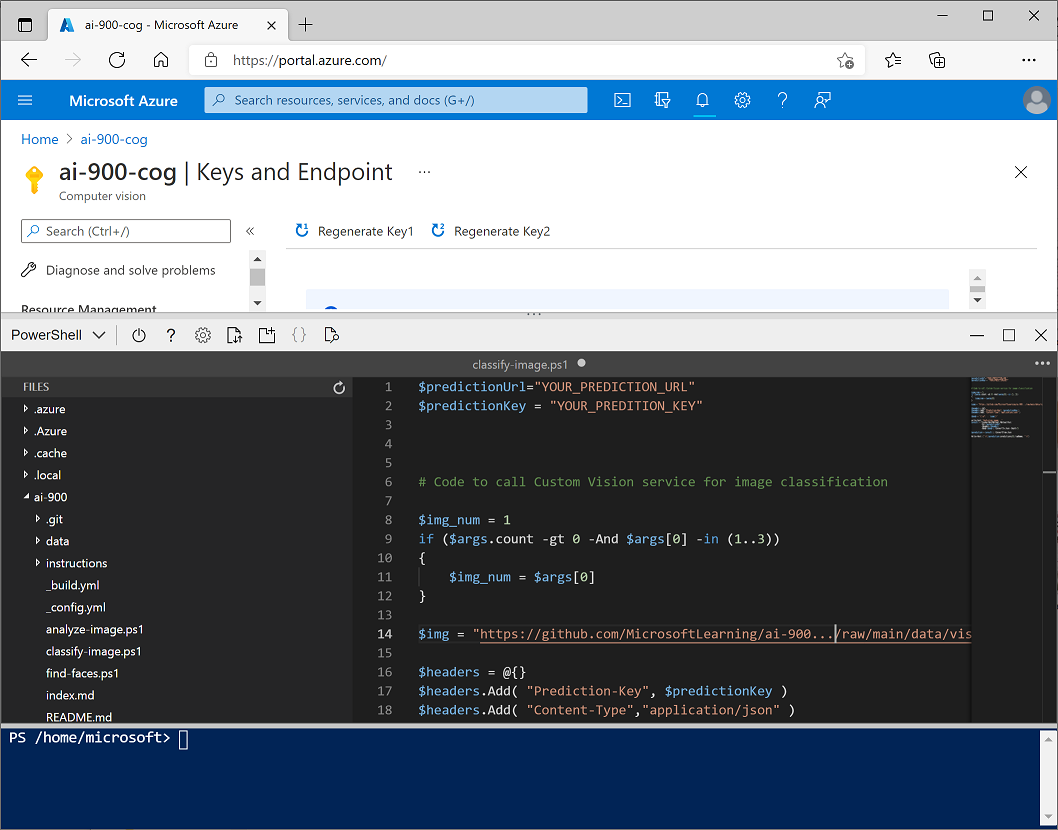
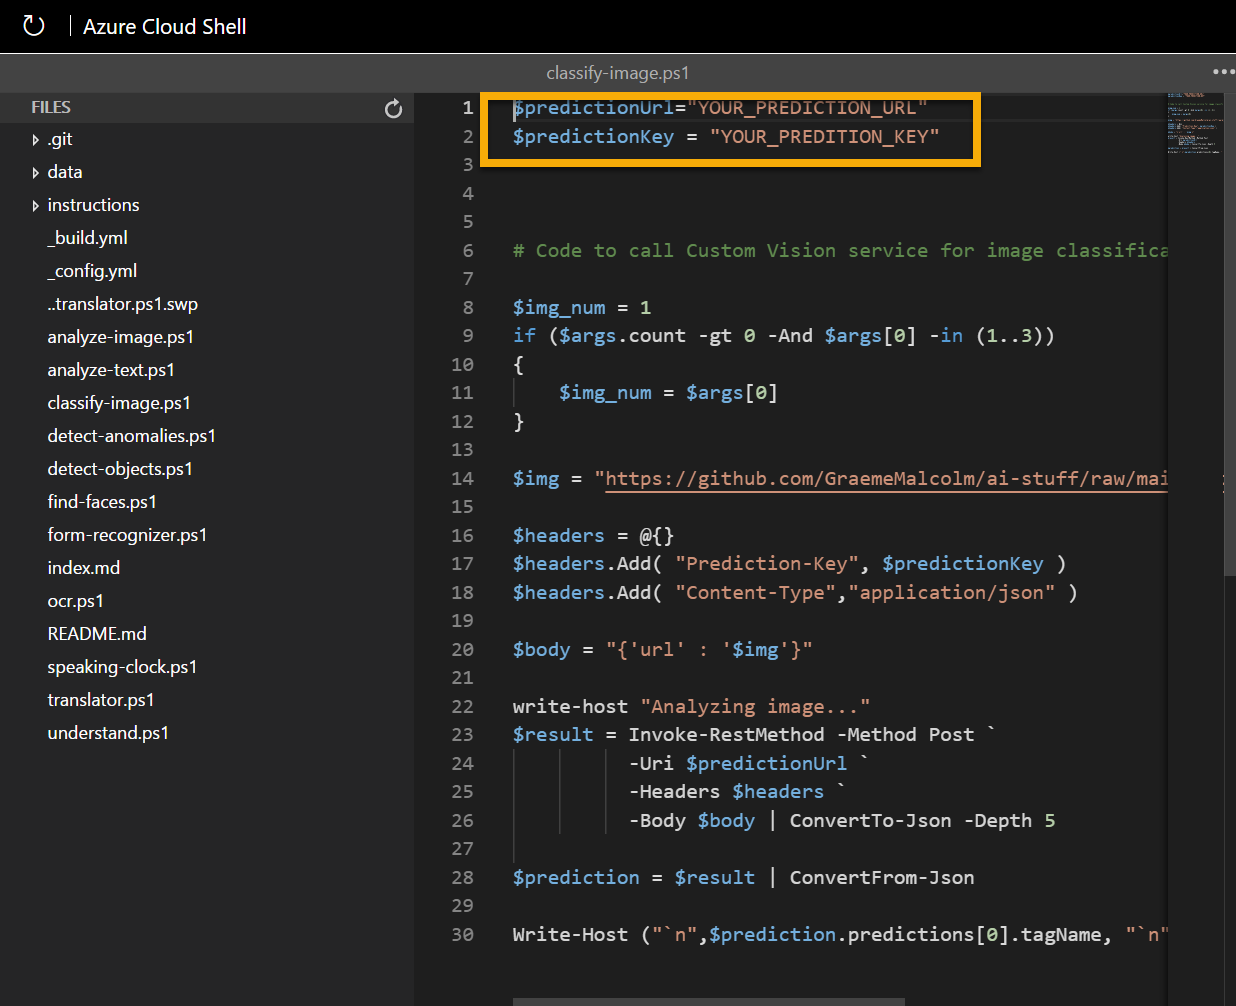
Update classify image lab 02 to sandbox.

diff --git a/instructions/02-image-classification.md b/instructions/02-image-classification.md
@@ -81,40 +81,42 @@ Now you're ready to publish your trained model and use it from a client applicat
 
     Later, you will need the appropriate URL and Prediction-Key values to get a prediction from an Image URL, so keep this dialog box open and carry on to the next task.
 
-## Create a cloud shell
+## Use a cloud shell
 
+To test the capabilities of the Custom Vision service, we'll use a simple command-line application that runs in the cloud shell.
 > **Note**: For this lab, you will test out an application in a cloud shell environment. When you build your own application, you can use an environment of your choice.
 
-To consume your custom vision model from a client, we'll use a simple command-line application that runs in the cloud shell provided with your Azure subscription.
-
-1. Switch to the browser tab containing the Azure portal, and select the [**>_**] (*Cloud Shell*) button at the top of the page to the right of the search box. This opens a Cloud Shell pane at the bottom of the portal, as shown here.
+1. Click the **Activate Sandbox** button at the top of the page. This starts a Cloud Shell instance to your right, as shown here. You may be prompted to review permissions. Click **Accept**. 
 
     ![Azure cloud shell pane](./media/cloud-shell.png)
 
-2. The first time you open the cloud shell, you will be prompted to choose the type of shell you want to use (*Bash* or *PowerShell*). Select **PowerShell**.
-3. If you are prompted to create storage for your cloud shell, ensure your subscription is specified and select **Create storage**. Then wait a minute or so for the storage to be created. Eventually, the cloud shell pane will display a command prompt like this:
+2. When you open the cloud shell, you will need to change the type of shell you are using from *Bash* to *PowerShell*. Type in pwsh and press enter. 
 
-    ![Azure cloud shell PowerShell prompt](./media/powershell-prompt.png)
-
-    > **Note**: If you selected *Bash*, or you had previously opened a Bash cloud shell, you can switch to PowerShell by using the drop-down menu at the top left of the cloud shell pane.
+    ```
+    pwsh
+    ```
 
 ## Configure and run a client application
 
 Now that you have a cloud shell environment, you can run a simple client application that uses the Computer Vision service to analyze an image.
 
-1. In the command shell, enter the following command to download the sample application. 
+1. In the command shell, enter the following command to download the sample application.
 
     ```
     git clone https://github.com/GraemeMalcolm/ai-stuff ai-900
     ```
 
-2. The files are downloaded to a folder named **ai-900**. To see all of the files in your cloud shell storage, select the **{ }** (*Open editor*) icon on the bar at the top of the cloud shell pane. This opens an additional editor pane above the cloud shell pane, like this:
+2. The files are downloaded to a folder named **ai-900**. Now we want to see all of the files in your cloud shell storage and work with them. Type the following command into the shell: 
 
-    ![Azure cloud shell editor](./media/editor-pane.png)
+     ```
+    code .
+    ```
 
-3. Use the separator bar above the editor pane to resize it so you can see more clearly, and then in the **Files** pane on the left, expand **ai-900** and select **classify-image.ps1**. This file contains some code that uses your Custom Vision model to classify an image, as shown here:
+    Notice how this opens up an editor. 
 
-    ![The editor containing code to classify an image](./media/classify-image-code.png)
+3. In the **Files** pane on the left, expand **ai-900** and select **classify-image.ps1**. This file contains some code that uses the Custom Vision model to analyze an image, as shown here:
+
+     ![The editor containing code to classify an image](./media/classify-image-code.png)
 
 4. Don't worry too much about the details of the code, the important thing is that it needs the prediction URL and key for your Custom Vision model when using an image URL. Copy these from the prediction URL dialog box in your Custom Vision project (which should still be open in another browser tab) and paste them into the code editor, replacing the **YOUR_PREDICTION_URL** and **YOUR_PREDICTION_KEY** placeholder values respectively.
 
